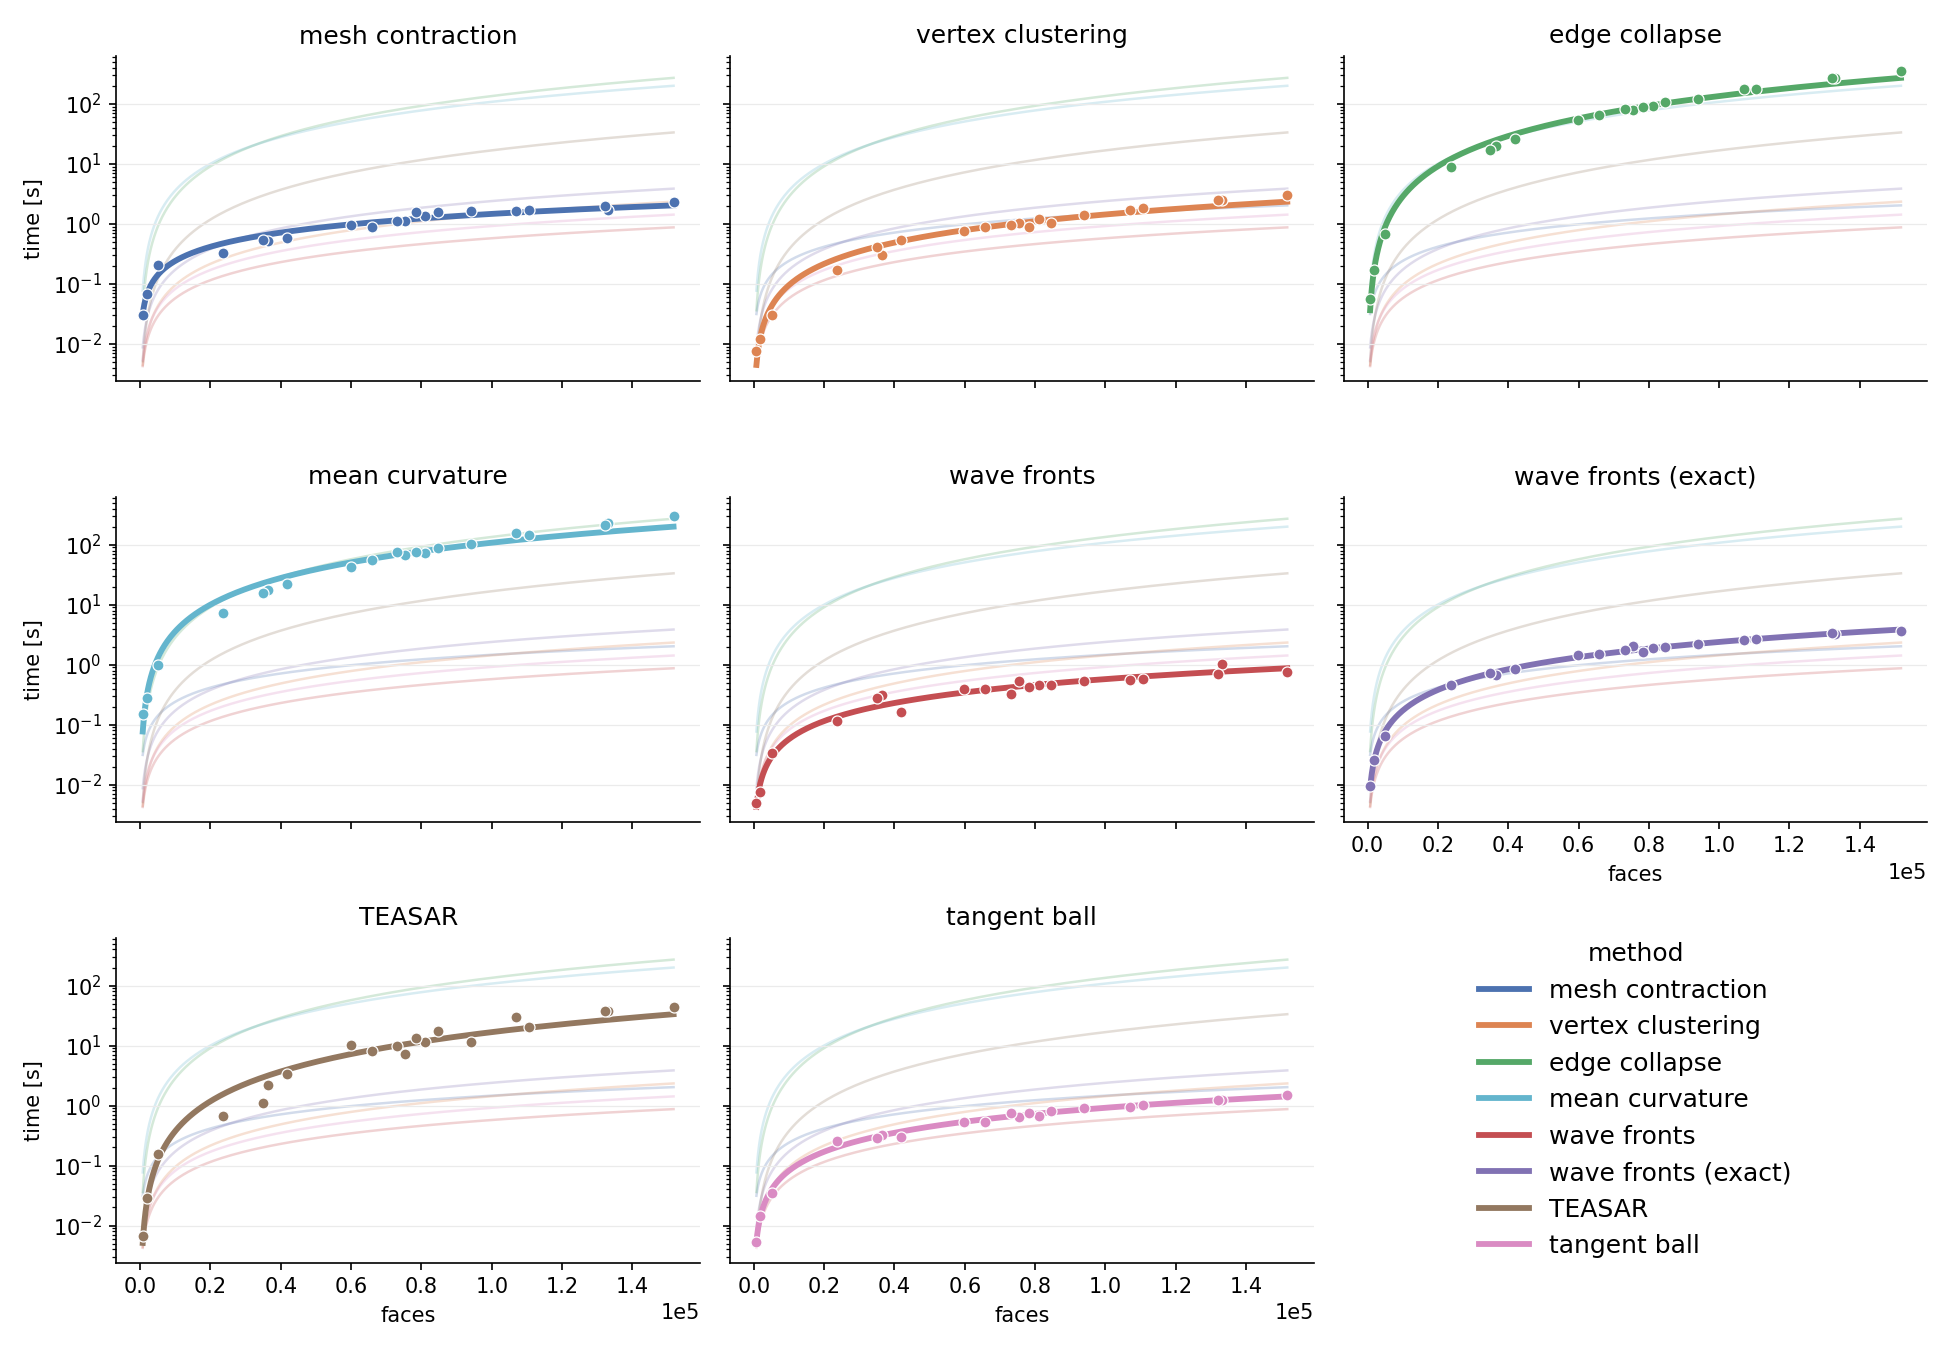
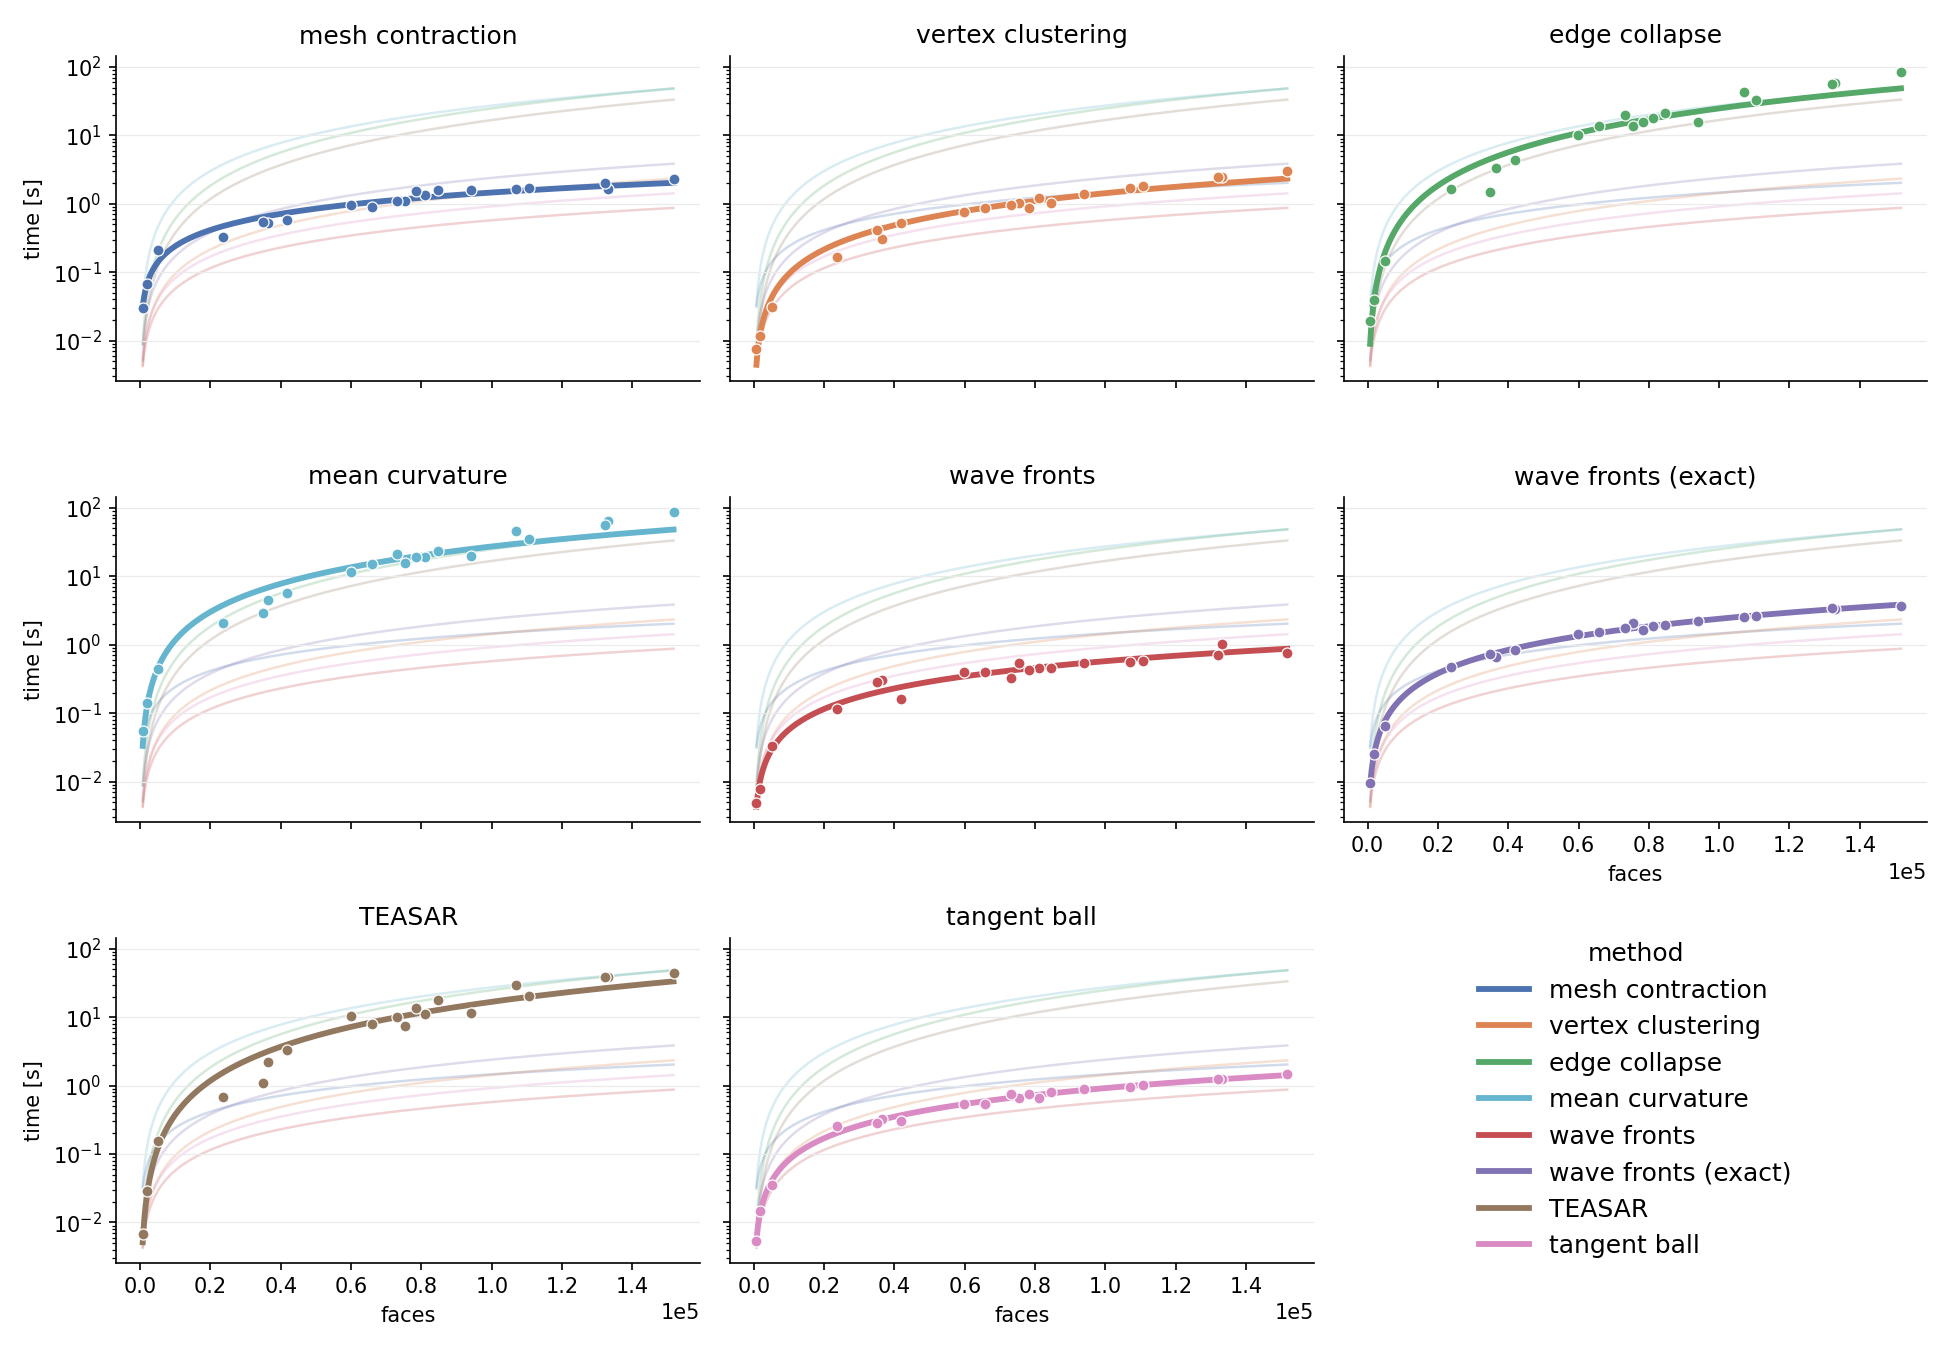
rewrite edge collapse

diff --git a/skeletor/skeletonize/edge_collapse.py b/skeletor/skeletonize/edge_collapse.py
@@ -14,12 +14,7 @@
 #    You should have received a copy of the GNU General Public License
 #    along with this program.
 
-try:
-    import fastremap
-except ImportError:
-    fastremap = None
-except BaseException:
-    raise
+import heapq
 
 import numpy as np
 import scipy.sparse
@@ -146,9 +141,7 @@ def by_edge_collapse(mesh, shape_weight=1, sample_weight=0.1,
     K = np.array(K)
 
     # Q for vertex i is then the sum of the products of (kT,k) for ALL edges
-    # connected to vertex i:
-    # Initialize matrix of correct shape
-    Q_array = np.zeros((4, 4, verts.shape[0]), dtype=np.float64)
+    # connected to vertex i.
 
     # Generate (kT, K)
     kT = np.transpose(K, axes=(1, 0, 2))
@@ -157,23 +150,16 @@ def by_edge_collapse(mesh, shape_weight=1, sample_weight=0.1,
     # do some annoying transposes to get to (4, 4, len(edges))
     K_dot = np.matmul(K.T, kT.T).T
 
-    # Iterate over all vertices
-    for v in range(len(verts)):
-        # Find edges that contain this vertex
-        cond1 = edges[:, 0] == v
-        cond2 = edges[:, 1] == v
-        # Note that this does not take directionality of edges into account
-        # Not sure if that's intended?
-
-        # Get indices of these edges
-        indices = np.where(cond1 | cond2)[0]
-
-        # Get the products for all edges adjacent to mesh
-        Q = K_dot[:, :, indices]
-        # Sum over all edges
-        Q = Q.sum(axis=2)
-        # Add to Q array
-        Q_array[:, :, v] = Q
+    # Each edge contributes its K_dot matrix to BOTH of its endpoints. Rather
+    # than scanning all edges once per vertex (O(V*E)) we scatter-add each
+    # edge's contribution onto its two endpoints in a single O(E) pass.
+    # Directionality of the edge is intentionally ignored (matches the original
+    # implementation).
+    K_dot_e = np.moveaxis(K_dot, 2, 0)  # (E, 4, 4)
+    Q_vfirst = np.zeros((verts.shape[0], 4, 4), dtype=np.float64)
+    np.add.at(Q_vfirst, edges[:, 0], K_dot_e)
+    np.add.at(Q_vfirst, edges[:, 1], K_dot_e)
+    Q_array = np.moveaxis(Q_vfirst, 0, 2)  # (4, 4, V)
 
     # Edge collapse:
     # Determining which edge to collapse is a weighted sum of the shape and
@@ -208,16 +194,16 @@ def by_edge_collapse(mesh, shape_weight=1, sample_weight=0.1,
     adj = adj + adj.T
     verts_lengths = np.array(adj.sum(axis=1)).flatten()
 
-    def collapse_costs(mask):
-        """Cost of collapsing the edges selected by `mask` (eq. 8).
+    def collapse_costs(idx):
+        """Cost of collapsing the edges at indices `idx` (eq. 8).
 
         Both collapse directions are considered and the cheaper one is kept;
         the edge is re-oriented in place so that column 0 is always the vertex
         that gets *removed* and column 1 the *survivor* (matching the collapse
         loop below). Returns the minimum total cost per edge.
         """
-        e = edges[mask]
-        el = edge_lengths[mask]
+        e = edges[idx]
+        el = edge_lengths[idx]
         # Combined error quadric of both endpoints (symmetric in u, v)
         Quv = Q_array[:, :, e[:, 0]] + Q_array[:, :, e[:, 1]]
         p0, p1 = verts_h[e[:, 0]], verts_h[e[:, 1]]
@@ -235,68 +221,97 @@ def by_edge_collapse(mesh, shape_weight=1, sample_weight=0.1,
         flip = costB < costA
         if flip.any():
             e[flip] = e[flip][:, ::-1]
-            edges[mask] = e
+            edges[idx] = e
         return np.minimum(costA, costB)
 
     # Total cost - weighted sum of shape and sample cost, equation 8 in paper
-    F_T = collapse_costs(np.ones(edges.shape[0], dtype=bool))
+    F_T = collapse_costs(np.arange(edges.shape[0]))
 
-    # Now start collapsing edges one at a time
-    face_count = face_edges.shape[0]  # keep track of face counts for progress bar
-    is_collapsed = np.full(edges.shape[0], False)
-    keep = np.full(edges.shape[0], False)
-    with tqdm(desc='Collapsing edges', total=face_count, disable=progress is False) as pbar:
-        while face_edges.size:
-            # Uncomment to get a more-or-less random edge collapse
-            # F_T[:] = 0
+    # Incidence structures so that each collapse only has to touch the survivor's
+    # local neighbourhood instead of rescanning the whole edge/face arrays. The
+    # previous implementation did several O(edges) / O(faces) passes per collapse
+    # (=> O(faces^2) overall); maintaining adjacency incrementally brings this
+    # down to roughly O(faces log faces).
+    #
+    #   vert2edges[w]  : set of alive edge indices incident to vertex w
+    #   edge2faces[e]  : set of alive face indices that still contain edge e
+    #
+    # `face_edges` stores indices into the (length-stable) `edges` array; an edge
+    # collapse never deletes rows, it only relabels vertices, so these indices
+    # stay valid throughout.
+    n_edges = edges.shape[0]
+    vert2edges = [set() for _ in range(verts.shape[0])]
+    for e in range(n_edges):
+        vert2edges[int(edges[e, 0])].add(e)
+        vert2edges[int(edges[e, 1])].add(e)
+    edge2faces = [set() for _ in range(n_edges)]
+    for f in range(face_edges.shape[0]):
+        for x in face_edges[f]:
+            edge2faces[int(x)].add(f)
 
-            # Update progress bar
-            pbar.update(face_count - face_edges.shape[0])
-            face_count = face_edges.shape[0]
+    alive_edge = np.ones(n_edges, dtype=bool)
+    alive_face = np.ones(face_edges.shape[0], dtype=bool)
+    keep = np.zeros(n_edges, dtype=bool)
+    n_faces_alive = int(face_edges.shape[0])
 
-            # This has to come at the beginning of the loop
-            # Set cost of collapsing edges without faces to infinite
-            F_T[keep] = np.inf
-            F_T[is_collapsed] = np.inf
+    # Lazy-deletion min-heap of (cost, edge index). We never remove entries when
+    # a cost changes; instead we push the new value and discard outdated entries
+    # on pop by checking them against the authoritative `F_T` plus the alive/keep
+    # flags. This replaces the old O(edges) `np.argmin` per iteration.
+    heap = [(float(F_T[e]), e) for e in range(n_edges) if np.isfinite(F_T[e])]
+    heapq.heapify(heap)
 
-            # Get the edge that we want to collapse
-            collapse_ix = np.argmin(F_T)
-            # If even the cheapest edge has infinite cost there is nothing left
-            # we can safely collapse (everything is collapsed, kept, or deferred
-            # by the link condition below). Stop - the MST reconstruction at the
-            # end will reconnect whatever vertices remain.
-            if not np.isfinite(F_T[collapse_ix]):
-                break
-            # Get the vertices this edge connects
-            u, v = edges[collapse_ix]
-            # Get all edges that contain these vertices:
-            # First, edges that are (uv, x)
-            connects_uv = np.isin(edges[:, 0], [u, v])
-            # Second, check if any (uv, x) edges are (uv, uv)
-            connects_uv[connects_uv] = np.isin(edges[connects_uv, 1], [u, v])
+    def push(idx):
+        for e in idx:
+            e = int(e)
+            c = F_T[e]
+            if np.isfinite(c):
+                heapq.heappush(heap, (float(c), e))
 
-            # Remove uu and vv edges
-            uuvv = edges[:, 0] == edges[:, 1]
-            connects_uv = connects_uv & ~uuvv
-            # Get the edge's indices
-            clps_edges = np.where(connects_uv)[0]
-
-            # Now find find the faces the collapsed edge is part of
-            # Note: splitting this into three conditions is marginally faster than
-            # np.any(np.isin(face_edges, clps_edges), axis=1)
-            uv0 = np.isin(face_edges[:, 0], clps_edges)
-            uv1 = np.isin(face_edges[:, 1], clps_edges)
-            uv2 = np.isin(face_edges[:, 2], clps_edges)
-            has_uv = uv0 | uv1 | uv2
-
-            # If these edges do not have adjacent faces anymore
-            if not np.any(has_uv):
-                # Track this edge as a keeper
-                keep[clps_edges] = True
+    with tqdm(desc='Collapsing edges', total=n_faces_alive,
+              disable=progress is False) as pbar:
+        last = n_faces_alive
+        while heap:
+            cost, e = heapq.heappop(heap)
+            # Skip stale / dead / kept heap entries. If the cheapest live entry
+            # has infinite cost there is nothing left we can safely collapse.
+            if not alive_edge[e] or keep[e] or cost != F_T[e]:
                 continue
 
-            # Get the collapsed faces [(e1, e2, e3), ...] for this edge
-            clps_faces = face_edges[has_uv]
+            pbar.update(last - n_faces_alive)
+            last = n_faces_alive
+
+            # Get the vertices this edge connects. Collapsing (u, v) merges u
+            # into v (u is removed, v survives), see the re-orientation in
+            # `collapse_costs`.
+            u, v = int(edges[e, 0]), int(edges[e, 1])
+            if u == v:
+                alive_edge[e] = False
+                F_T[e] = np.inf
+                continue
+
+            # All alive edges that connect u and v (parallel edges), excluding
+            # self-loops. An edge incident to *both* u and v necessarily has
+            # endpoints exactly {u, v}.
+            clps = {e2 for e2 in (vert2edges[u] & vert2edges[v])
+                    if edges[e2, 0] != edges[e2, 1]}
+            if not clps:
+                F_T[e] = np.inf
+                continue
+            clps_edges = np.fromiter(clps, dtype=np.int64)
+
+            # Alive faces incident to any of the collapsing edges
+            faces = set()
+            for e2 in clps:
+                faces |= edge2faces[e2]
+            faces = [f for f in faces if alive_face[f]]
+
+            # If these edges do not have adjacent faces anymore they become
+            # skeleton segments - track them as keepers.
+            if not faces:
+                keep[clps_edges] = True
+                F_T[clps_edges] = np.inf
+                continue
 
             # Link condition (optional): we may only collapse edge (u, v) if
             # every vertex adjacent to BOTH u and v also forms a triangle
@@ -305,53 +320,71 @@ def by_edge_collapse(mesh, shape_weight=1, sample_weight=0.1,
             # we find one, defer this edge (set its cost to infinity) and pick
             # another. Off by default - see the docstring for why.
             if link_condition:
-                inc = ~is_collapsed & ~uuvv
-                inc_u = inc & ((edges[:, 0] == u) | (edges[:, 1] == u))
-                inc_v = inc & ((edges[:, 0] == v) | (edges[:, 1] == v))
-                nbr_u = np.where(edges[inc_u, 0] == u, edges[inc_u, 1], edges[inc_u, 0])
-                nbr_v = np.where(edges[inc_v, 0] == v, edges[inc_v, 1], edges[inc_v, 0])
-                common = np.intersect1d(nbr_u, nbr_v)
-                common = common[(common != u) & (common != v)]
+                nbr_u = {(int(edges[e2, 0]) if int(edges[e2, 1]) == u
+                          else int(edges[e2, 1])) for e2 in vert2edges[u]}
+                nbr_v = {(int(edges[e2, 0]) if int(edges[e2, 1]) == v
+                          else int(edges[e2, 1])) for e2 in vert2edges[v]}
+                common = (nbr_u & nbr_v) - {u, v}
                 # Vertices that legitimately share a face with the edge (u, v)
-                face_k = np.unique(edges[clps_faces])
-                if np.setdiff1d(common, face_k).size:
+                face_k = set()
+                for f in faces:
+                    for x in face_edges[f]:
+                        face_k.add(int(edges[int(x), 0]))
+                        face_k.add(int(edges[int(x), 1]))
+                if common - face_k:
                     F_T[clps_edges] = np.inf
                     continue
 
-            # Remove the collapsed faces
-            face_edges = face_edges[~has_uv]
+            # Adjacent (non-collapsing) edges of each collapsing face as
+            # (win, loose) pairs, in face-column order. Each collapsing triangle
+            # has exactly one of its edges between u and v, so the two survivors
+            # collapse onto each other (loose -> win).
+            adj_pairs = []
+            for f in sorted(faces):
+                non = [int(x) for x in face_edges[f] if int(x) not in clps]
+                if len(non) == 2:
+                    adj_pairs.append((non[0], non[1]))
 
-            # Track these edges as collapsed
-            is_collapsed[clps_edges] = True
+            # Remove the collapsing faces
+            for f in faces:
+                alive_face[f] = False
+                for x in face_edges[f]:
+                    edge2faces[int(x)].discard(f)
+            n_faces_alive -= len(faces)
 
-            # Get the adjacent edges (i.e. non-uv edges)
-            adj_edges = clps_faces[~np.isin(clps_faces, clps_edges)].reshape(clps_faces.shape[0], 2)
+            # Track the collapsing edges as collapsed
+            for e2 in clps:
+                alive_edge[e2] = False
+                vert2edges[int(edges[e2, 0])].discard(e2)
+                vert2edges[int(edges[e2, 1])].discard(e2)
+                F_T[e2] = np.inf
 
-            # We have to do some sorting and finding unique edges to make sure
-            # remapping is done correctly further down
-            # NOTE: Not sure we really need this, so leaving it out for now
-            # adj_edges = np.unique(np.sort(adj_edges, axis=1), axis=0)
+            # Replace occurrences of the loosing edge with the winning edge in
+            # every face that still references it. Crucially we do NOT skip
+            # already-dead loose edges - leaving them behind would create stale
+            # degenerate faces that get mistaken for collapsible later on.
+            for win, loose in adj_pairs:
+                if win == loose:
+                    continue
+                for f in list(edge2faces[loose]):
+                    face_edges[f] = [win if int(x) == loose else int(x)
+                                     for x in face_edges[f]]
+                    edge2faces[win].add(f)
+                    edge2faces[loose].discard(f)
+                alive_edge[loose] = False
+                vert2edges[int(edges[loose, 0])].discard(loose)
+                vert2edges[int(edges[loose, 1])].discard(loose)
+                F_T[loose] = np.inf
 
-            # We need to keep track of changes to the adjacent faces
-            # Basically each face in (i, j, k) will be reduced to one edge
-            # which points from u -> v
-            # -> replace occurrences of loosing edge with winning edge
-            for win, loose in adj_edges:
-                if fastremap:
-                    face_edges = fastremap.remap(face_edges, {loose: win},
-                                                 preserve_missing_labels=True,
-                                                 in_place=True)
-                else:
-                    face_edges[face_edges == loose] = win
-                is_collapsed[loose] = True
-
-            # Replace occurrences of first node u with second node v
-            if fastremap:
-                edges = fastremap.remap(edges, {u: v},
-                                        preserve_missing_labels=True,
-                                        in_place=True)
-            else:
-                edges[edges == u] = v
+            # Replace occurrences of first node u with second node v on all edges
+            # still incident to u (local thanks to vert2edges).
+            for e2 in list(vert2edges[u]):
+                if edges[e2, 0] == u:
+                    edges[e2, 0] = v
+                if edges[e2, 1] == u:
+                    edges[e2, 1] = v
+                vert2edges[v].add(e2)
+            vert2edges[u] = set()
 
             # Add shape cost of u to shape costs of v
             Q_array[:, :, v] += Q_array[:, :, u]
@@ -362,10 +395,15 @@ def by_edge_collapse(mesh, shape_weight=1, sample_weight=0.1,
             verts_lengths[v] += verts_lengths[u]
 
             # Recompute costs for edges now incident to v (re-orienting them to
-            # their cheaper collapse direction). Both Q_array and verts_lengths
-            # must already be updated above.
-            has_v = (edges[:, 0] == v) | (edges[:, 1] == v)
-            F_T[has_v] = collapse_costs(has_v)
+            # their cheaper collapse direction) and (re-)push them onto the heap.
+            # Both Q_array and verts_lengths must already be updated above.
+            inc_v = np.fromiter(vert2edges[v], dtype=np.int64)
+            if inc_v.size:
+                costs = collapse_costs(inc_v)
+                # Kept edges incident to v must stay at infinity.
+                costs[keep[inc_v]] = np.inf
+                F_T[inc_v] = costs
+                push(inc_v)
 
     # If no edges survived the collapse there is nothing to build a skeleton
     # from. This typically happens for closed, blob-like meshes (e.g. a sphere)